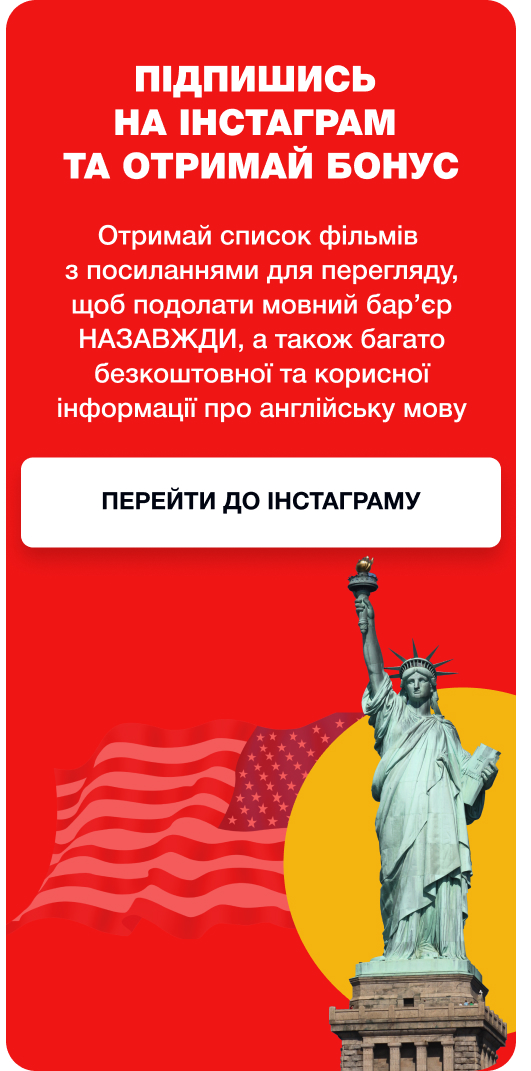
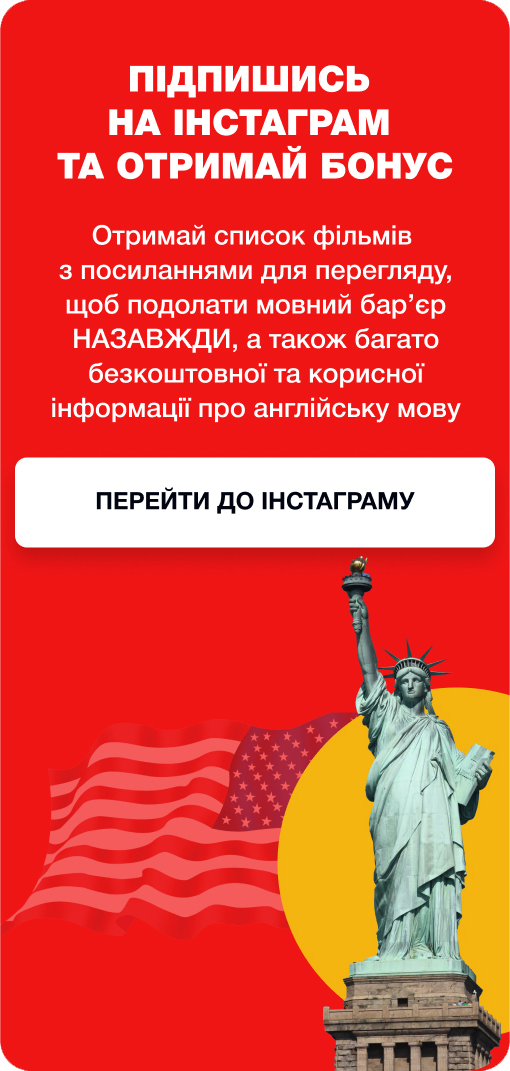
new blocks

diff --git a/styles.css b/styles.css
@@ -701,9 +701,8 @@ header li:hover {
     background-image: url(images/liberty-360.jpg);
     background-repeat: no-repeat;
     background-size: contain;
-    aspect-ratio: 343/692;
-    width: calc(100% + 18px);
-    margin-left: -4px;
+    aspect-ratio: 340/714;
+    width: 100%;
 }
 
 .about .liberty-wrap a {
@@ -894,7 +893,7 @@ header li:hover {
         margin: 0 auto;
         justify-content: center;
     }
-    
+
     .about .about-list li {
         width: 270px;
         height: 182px;
@@ -903,7 +902,7 @@ header li:hover {
         justify-content: center;
         padding: 0 23px;
     }
-    
+
     .about .about-list li:nth-child(3) {
         width: 100%;
         padding: 0 52px;
@@ -918,13 +917,13 @@ header li:hover {
     .about .top-wrap {
         gap: 20px;
         flex-direction: row;
-        justify-content: space-between;
+        justify-content: center;
         align-items: center;
         margin-bottom: 0px;
     }
 
     .about .content-wrap {
-        max-width: 560px;
+        max-width: 461px;
     }
 
     .about .content-text-1 {
@@ -940,6 +939,7 @@ header li:hover {
     .about .img-1 {
         min-width: 680px;
         aspect-ratio: 680/495;
+        margin-bottom: -100px;
     }
 
     .about .liberty-wrap {
@@ -1006,7 +1006,7 @@ header li:hover {
         gap: 20px;
         max-width: 1140px;
     }
-    
+
     .about .about-list li {
         width: 270px;
         height: 182px;
@@ -1015,7 +1015,7 @@ header li:hover {
         justify-content: center;
         padding: 0 20px;
     }
-    
+
     .about .about-list li:nth-child(3) {
         width: 560px;
         padding: 0 52px;
@@ -1030,6 +1030,7 @@ header li:hover {
 
     .about .top-wrap {
         margin-bottom: 30px;
+        gap: 165px;
     }
 
     .about .section-title {
@@ -1044,6 +1045,7 @@ header li:hover {
         background-image: url(images/about-1-1920.jpg);
         min-width: 995px;
         aspect-ratio: 995/646;
+        margin-bottom: 0;
     }
 
     .about .liberty-wrap {
@@ -1095,5 +1097,231 @@ header li:hover {
     .about .about-list {
         gap: 20px;
         max-width: 100%;
+    }
+}
+
+/* ================== AUTHOR ======================== */
+
+.author {
+    margin-bottom: 60px;
+}
+
+.author .section-title {
+    margin-bottom: 30px;
+}
+
+.author .hello {
+    font-size: 16px;
+    font-weight: 500;
+    line-height: 130%;
+    text-transform: uppercase;
+    margin-bottom: 20px;
+}
+
+.author .content-wrap ul {
+    display: flex;
+    flex-direction: column;
+    gap: 20px;
+}
+
+.author .content-wrap li {
+    position: relative;
+    color: #000;
+    font-size: 16px;
+    font-weight: 400;
+    line-height: 130%;
+    padding-left: 20px;
+}
+
+.author .content-wrap li:before {
+    content: "";
+    position: absolute;
+    width: 8px;
+    height: 8px;
+    border-radius: 50%;
+    background: linear-gradient(#EF1515, #F4B410);
+    left: 0;
+    top: 5px;
+}
+
+.author .section-title:before {
+    width: 145px;
+}
+
+.author .img-wrap {
+    background-image: url(images/author-360.jpg);
+    background-size: contain;
+    aspect-ratio: 340/337;
+    margin-top: 30px;
+}
+
+.author .certificates {
+    margin-top: 70px;
+    display: flex;
+    flex-direction: column;
+    align-items: center;
+}
+
+.author .certificates ul {
+    position: relative;
+    display: flex;
+    flex-wrap: wrap;
+    gap: 20px;
+    overflow: hidden;
+    justify-content: center;
+    max-height: 120px;
+    padding: 0 10px 20px 10px;
+    width: calc(100% + 20px);
+    transition: max-height 0.5s;
+}
+
+.author .certificates li {
+    background-size: cover;
+    background-repeat: no-repeat;
+    width: 160px;
+    box-shadow: 0px 4px 10px 0px rgba(0, 0, 0, 0.15);
+    border-radius: 10px;
+}
+
+.author .certificates li:nth-child(1) {
+    background-image: url(images/sert-1-360.jpg);
+    aspect-ratio: 168/113;
+}
+
+.author .certificates li:nth-child(2) {
+    background-image: url(images/sert-2-360.jpg);
+    aspect-ratio: 168/113;
+}
+
+.author .certificates li:nth-child(3) {
+    background-image: url(images/sert-3-360.jpg);
+    aspect-ratio: 168/113;
+}
+
+.author .certificates li:nth-child(4) {
+    background-image: url(images/sert-4-360.jpg);
+    aspect-ratio: 168/113;
+}
+
+.author .certificates li:nth-child(5) {
+    background-image: url(images/sert-5-360.jpg);
+    aspect-ratio: 167/208;
+}
+
+.author .certificates li:nth-child(6) {
+    background-image: url(images/sert-6-360.jpg);
+    aspect-ratio: 167/208;
+}
+
+.author .certificates li:nth-child(7) {
+    background-image: url(images/sert-7-360.jpg);
+    aspect-ratio: 167/240;
+}
+
+.author .certificates li:nth-child(8) {
+    background-image: url(images/sert-8-360.jpg);
+    aspect-ratio: 167/240;
+}
+
+.author .certificates button {
+    border-radius: 8px;
+    border: none;
+    background-color: transparent;
+    width: 340px;
+    justify-content: center;
+    cursor: pointer;
+    border-bottom: 2px solid #000411;
+    font-size: 20px;
+    font-weight: 500;
+    display: flex;
+    align-items: center;
+    gap: 20px;
+    padding: 16px 0;
+}
+
+.author .certificates .hide {
+    display: none;
+}
+
+.author .certificates .hide img {
+    transform: rotate(180deg);
+}
+
+.author .open .hide {
+    display: flex;
+}
+
+.author .open .show-more {
+    display: none;
+}
+
+.author .open ul {
+    max-height: 715px;
+}
+
+
+@media (min-width: 768px) {
+    .author {
+        margin-bottom: 70px;
+    }
+
+    .author .hello {
+        font-size: 20px;
+    }
+
+    .author li {
+        font-size: 18px;
+    }
+
+    .author .img-wrap {
+        background-image: url(images/author-768.jpg);
+        background-size: contain;
+        aspect-ratio: 580/548;
+        margin-top: 23px;
+    }
+}
+
+@media (min-width: 1280px) {
+    .author {
+        margin-bottom: 100px;
+    }
+
+    .author .hello {
+        font-size: 24px;
+    }
+
+    .author .img-wrap {
+        background-image: url(images/author-768.jpg);
+        background-size: contain;
+        aspect-ratio: 580/548;
+        background-repeat: no-repeat;
+        height: 548px;
+        min-width: 580px;
+    }
+
+    .content-wrap {
+        max-width: 480px;
+    }
+
+    .author .top-wrap {
+        display: flex;
+        align-items: center;
+        justify-content: center;
+        gap: 100px;
+    }
+}
+
+@media (min-width: 1920px) {
+    .author {
+        margin-bottom: 130px;
+    }
+
+    .author .img-wrap {
+        background-image: url(images/author-1920.jpg);
+        background-size: contain;
+        aspect-ratio: 760/601;
+        background-repeat: no-repeat;
+        height: 601px;
+        min-width: 760px;
     }
 }

diff --git a/index.html b/index.html
@@ -67,9 +67,9 @@
         </div>
     </section>
     <section class="about container">
-        <h3 class="section-title">Про курс</h3>
         <div class="top-wrap">
             <div class="content-wrap">
+                <h3 class="section-title">Про курс</h3>
                 <p class="top-text">Основна програма:</p>
                 <p class="accent-text">10 відеолекцій<br>по 20 хвилин</p>
                 <p class="content-text-1">під час яких ми будемо трансформувати вашу <span>розмовну англійську за
@@ -151,6 +151,36 @@
                 <p>країн з якими працюю</p>
             </li>
         </ul>
+    </section>
+    <section class="author container">
+        <div class="top-wrap">
+            <div class="content-wrap">
+                <h3 class="section-title">Автор курсу</h3>
+                <p class="hello">Привіт! Мене звати Ольга Яворська</p>
+                <ul>
+                    <li>Я - Нейромовний коуч, акредитований Міжнародною федерацією коучів (США) та Сетифікований викладач бізнес англійської (IH London)</li>
+                    <li>Готую студентів до успішної здачі міжнародних екзаменів IELTS, FCE, CAE, CPE. Маю підтверждений рівень С2 від Cambridge Assessment English (UK).</li>
+                    <li>Сама пройшла шлях від А1 до С2. Не могла заговорити поки не знайла ПРАВИЛЬНИЙ підхід, яким власне хочу поділитись з ВАМИ!</li>
+                    <li>Моя мета - зробити процес вивчення англійської захоплюючим та практичним. З цим курсом, ви зможете поринути у світ англійської мови, розширити свій словниковий запас і навчитися говорити та розуміти англійську так, як це роблять носії мови.</li>
+                    <li>Буду рада поділитися з вами моїм досвідом і знаннями, щоб допомогти вам досягти ваших цілей у вивченні англійської мови</li>
+                </ul>
+            </div>
+            <div class="img-wrap"></div>
+        </div>
+        <div class="certificates">
+            <ul>
+                <li></li>
+                <li></li>
+                <li></li>
+                <li></li>
+                <li></li>
+                <li></li>
+                <li></li>
+                <li></li>
+            </ul>
+            <button class="show-more">Показати ще<img src="icons/ph_arrow-up.svg" alt="arrow"></button>
+            <button class="hide">Згорнути<img src="icons/ph_arrow-up.svg" alt="arrow"></button>
+        </div>
     </section>
 </body>
 

diff --git a/index.js b/index.js
@@ -3,6 +3,9 @@ const menu = document.querySelector('.burger-menu');
 const button = menu.querySelector('.burger-menu_button, .burger-menu_lines');
 const links = menu.querySelectorAll('.burger-menu_link, .close-menu');
 const overlay = menu.querySelector('.burger-menu_overlay');
+const certificates = document.querySelector('.certificates');
+const showMoreBtn = certificates.querySelectorAll('.show-more, .hide');
+
 button.addEventListener('click', (e) => {
     e.preventDefault();
     toggleMenu();
@@ -18,4 +21,14 @@ function toggleMenu() {
     } else {
         document.body.style.overflow = 'visible';
     }
+}
+
+showMoreBtn.forEach((btn) => {
+    btn.addEventListener('click', (e) => {
+    e.preventDefault();
+    toggleCertificates();
+})});
+
+function toggleCertificates() {
+    certificates.classList.toggle('open');
 }
